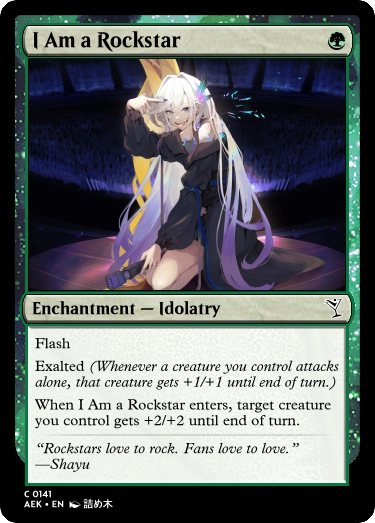
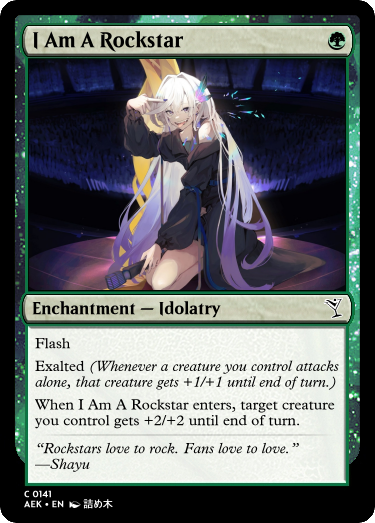
egg halp me

Changed region(s): [[0.2933, 0.7648, 0.9093, 0.7954], [0.2053, 0.0612, 0.4987, 0.0918]]

diff --git a/previews/AEK.html b/previews/AEK.html
@@ -325,7 +325,7 @@
 				<div class="container"><img loading="lazy" alt="/sets\AEK-files\img\55_Isolated Wayfarer.png" id="55_Isolated Wayfarer" data-flag="@X" onclick="openSidebar('55_Isolated Wayfarer',false)"></div>
 				<div class="container"><img loading="lazy" alt="/sets\AEK-files\img\77_The Girl in the Chair.png" id="77_The Girl in the Chair" data-flag="@X" onclick="openSidebar('77_The Girl in the Chair',false)"></div>
 				<div class="container"><img loading="lazy" alt="/sets\AEK-files\img\113_Let Him Cook.png" id="113_Let Him Cook" data-flag="@X" onclick="openSidebar('113_Let Him Cook',false)"></div>
-				<div class="container"><img loading="lazy" alt="/sets\AEK-files\img\141_I Am a Rockstar.png" id="141_I Am a Rockstar" data-flag="@X" onclick="openSidebar('141_I Am a Rockstar',false)"></div>
+				<div class="container"><img loading="lazy" alt="/sets\AEK-files\img\141_I Am A Rockstar.png" id="141_I Am A Rockstar" data-flag="@X" onclick="openSidebar('141_I Am A Rockstar',false)"></div>
 				<div class="container"><img loading="lazy" alt="/sets\AEK-files\img\17_Fantasy Aspirant.png" id="17_Fantasy Aspirant" data-flag="@X" onclick="openSidebar('17_Fantasy Aspirant',false)"></div>
 				<div class="container"><img loading="lazy" alt="/sets\AEK-files\img\56_Midnight Dreamer.png" id="56_Midnight Dreamer" data-flag="@X" onclick="openSidebar('56_Midnight Dreamer',false)"></div>
 				<div class="container"><img loading="lazy" alt="/sets\AEK-files\img\83_Jealous Rival.png" id="83_Jealous Rival" data-flag="@X" onclick="openSidebar('83_Jealous Rival',false)"></div>
